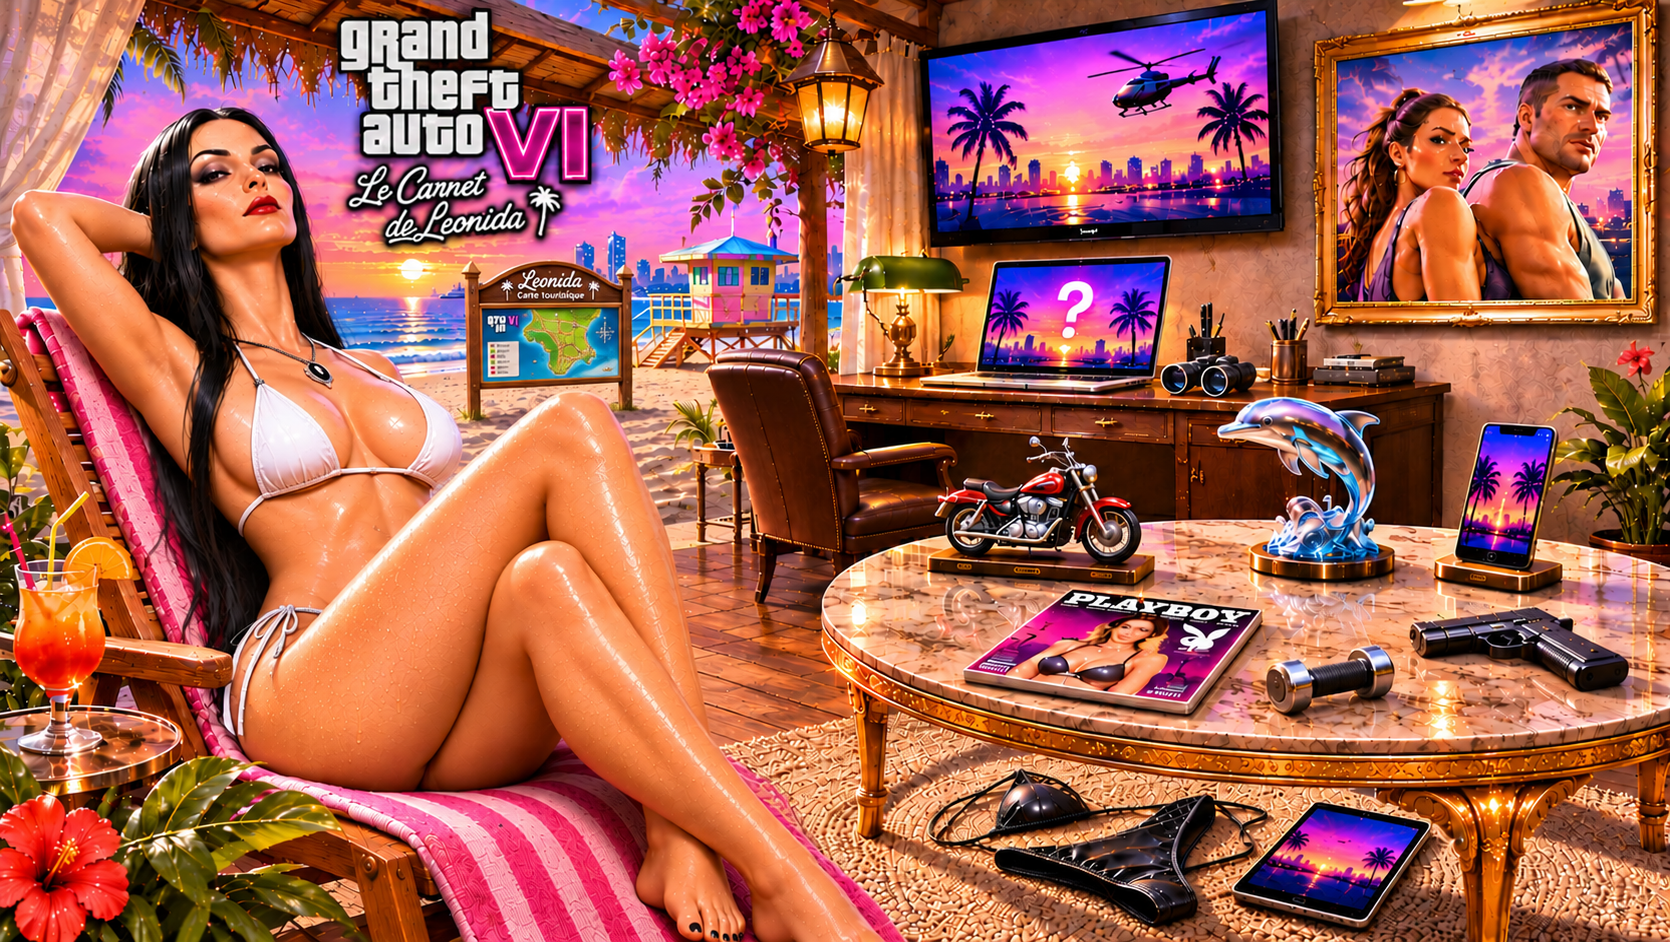
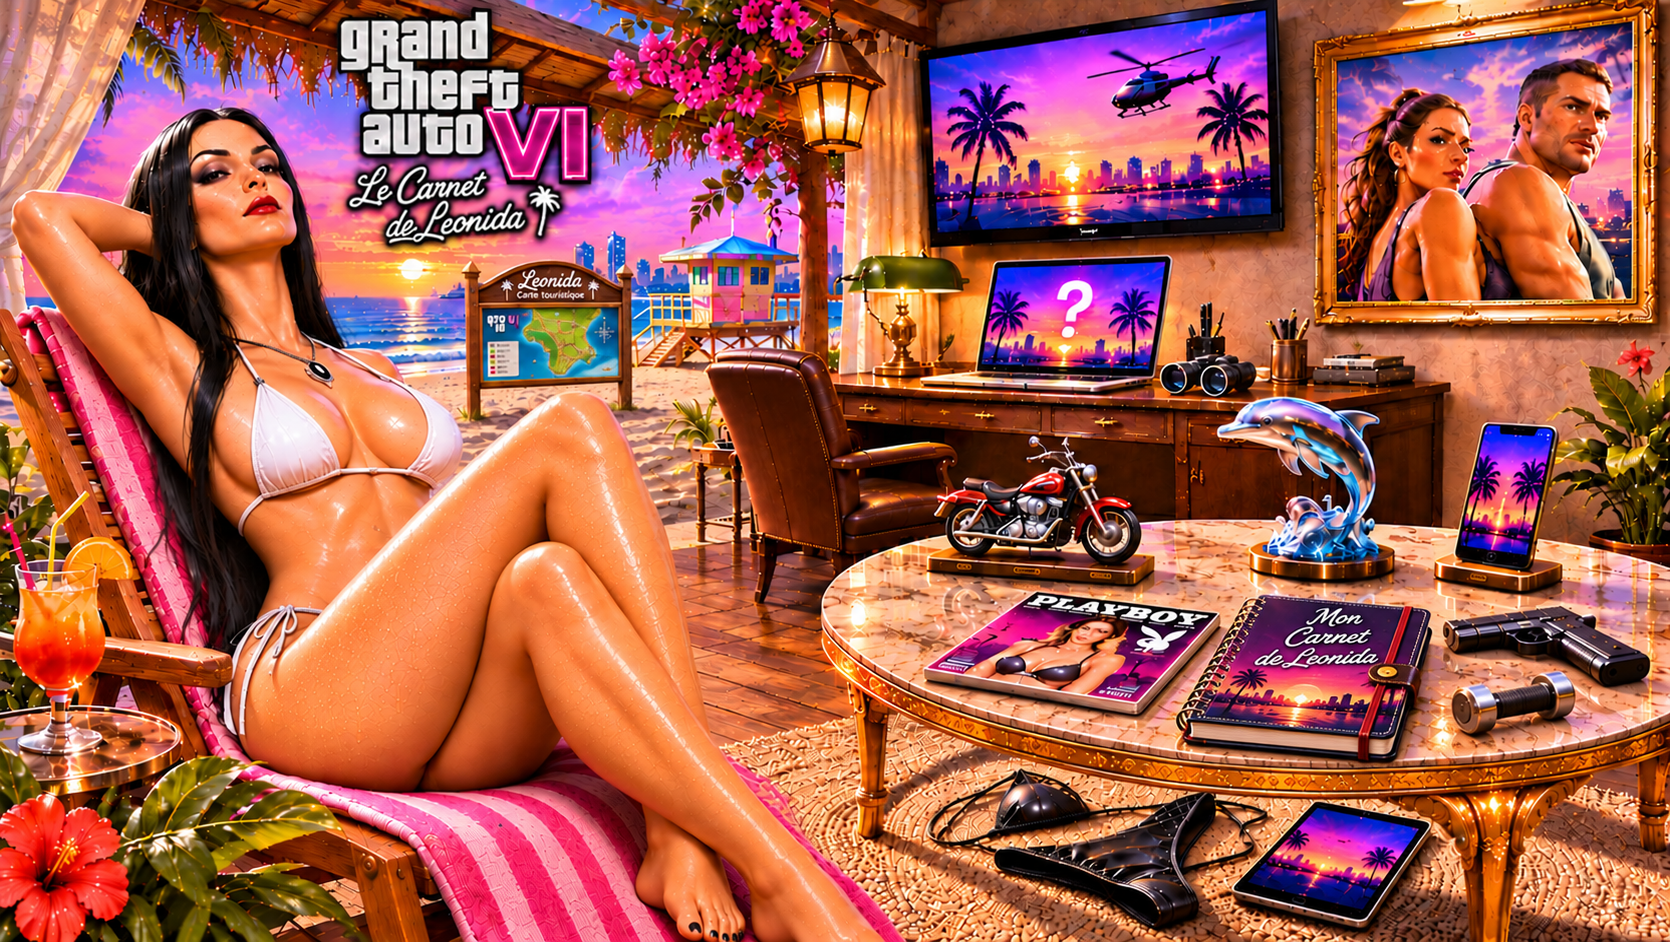
Add files via upload

diff --git a/index.html b/index.html
@@ -18,6 +18,7 @@
   .tv,.portrait{border-radius:3%}
   .laptop,.tablet,.magazine,.gun,.swimsuit,.weight{border-radius:16%}
   .chair{border-radius:35%}
+  .notebook{border-radius:12%;z-index:2}
   @media(max-aspect-ratio:1648/928){.scene{width:100vw}}
   @media(min-aspect-ratio:1648/928){.scene{height:100svh;width:auto}}
   @media(prefers-reduced-motion:reduce){.zone{transition:none}}
@@ -49,6 +50,7 @@
       <a class="zone dauphin" href="animaux.html" style="--x:72.3%;--y:40.9%;--w:11.1%;--h:21.2%;" aria-label="Animaux" title="Animaux"></a>
       <a class="zone phone" href="objets.html" style="--x:86.1%;--y:44.8%;--w:7.0%;--h:17.0%;" aria-label="Objets" title="Objets"></a>
       <a class="zone magazine" href="salon-prive.html" style="--x:57.2%;--y:61.4%;--w:17.9%;--h:16.1%;" aria-label="Salon privé" title="Salon privé"></a>
+      <a class="zone notebook" href="carnet.html" style="--x:70.4%;--y:62.2%;--w:14.0%;--h:18.1%;" aria-label="Mon carnet de Leonida" title="Mon carnet de Leonida"></a>
       <a class="zone gun" href="objets-armes.html" style="--x:78.6%;--y:64.3%;--w:19.0%;--h:12.1%;" aria-label="Armes" title="Armes"></a>
       <a class="zone swimsuit" href="objets-vetements.html" style="--x:56.5%;--y:82.1%;--w:20.0%;--h:15.7%;" aria-label="Vêtements" title="Vêtements"></a>
       <a class="zone weight" href="activites.html" style="--x:74.7%;--y:68.8%;--w:10.5%;--h:8.8%;" aria-label="Activités" title="Activités"></a>
